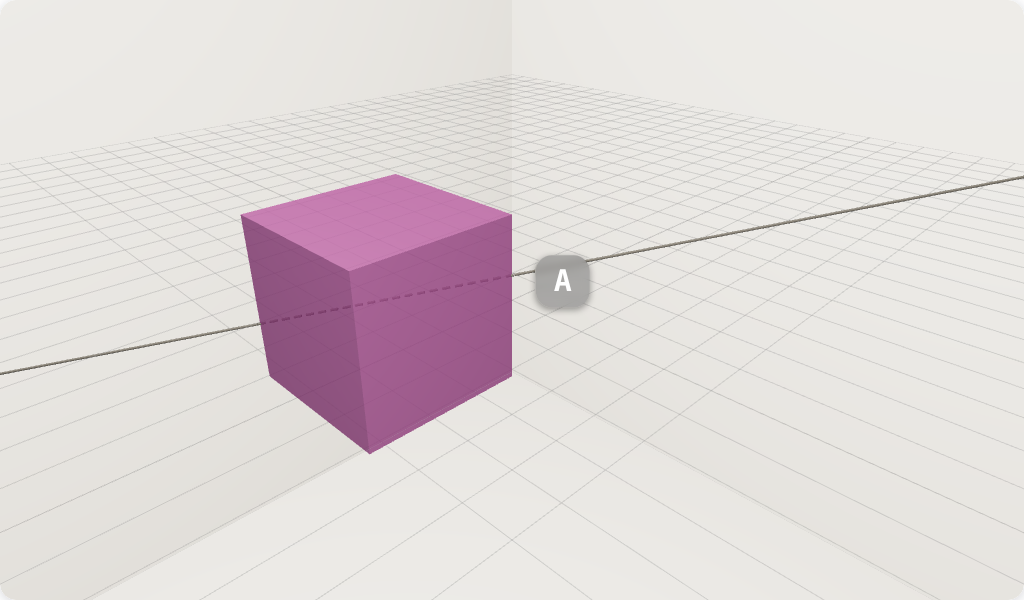
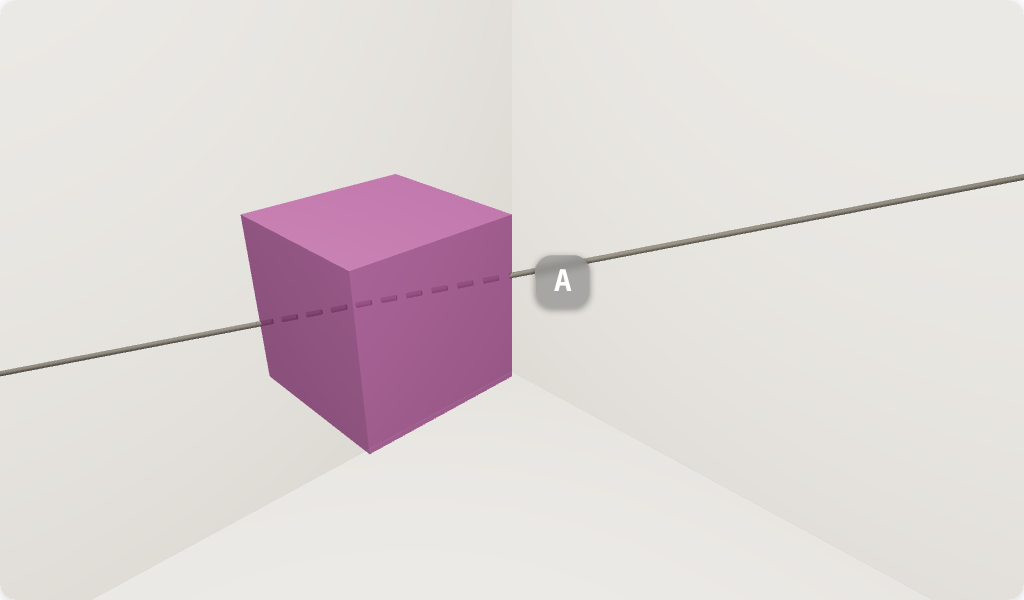
draw ringed tubes at the plain tube width and drop the grid from the cue pictures
Ringed lines and vectors were nearly twice as thick as plain tubes, which made
T3 easier to see for reasons unrelated to the rings. They now share the plain
tube's shaft and arrowhead sizes. The intro's cue close-ups hide the grid, which
crossed the floor grid at clashing scales and looked broken.

diff --git a/src/components/BlocksCanvas/blocks/geometric/geoVectorLine.js b/src/components/BlocksCanvas/blocks/geometric/geoVectorLine.js
@@ -389,18 +389,18 @@ export function geoVectorLineDefinition(posInput, dirInput, tRaw, blockId, optio
 
   const baseTube = new THREE.Mesh(
     new THREE.CylinderGeometry(
-      0.085,
-      0.085,
+      0.051,
+      0.051,
       distance,
       RINGED_TUBE_RADIAL_SEGMENTS,
       RINGED_TUBE_HEIGHT_SEGMENTS(distance),
     ),
     ringedTubeMat,
   )
-  baseTube.userData.zoomInvariantRadius = 0.085
+  baseTube.userData.zoomInvariantRadius = 0.051
   ringedTube.add(baseTube)
 
-  const haloCompanionRingedTube = haloAvailable ? buildHaloCompanion(0.085) : null
+  const haloCompanionRingedTube = haloAvailable ? buildHaloCompanion(0.051) : null
   if (haloAvailable) window.applyHaloDiscardMaterial(ringedTubeMat, haloId, haloImmuneIds)
 
   // "dashed" style REPLACES the base tube, like plain_tube's dashedTubeGroup;
@@ -427,15 +427,15 @@ export function geoVectorLineDefinition(posInput, dirInput, tRaw, blockId, optio
     if (haloAvailable) window.applyHaloDiscardMaterial(mat, haloId, haloImmuneIds)
     const segment = new THREE.Mesh(
       new THREE.CylinderGeometry(
-        0.085,
-        0.085,
+        0.051,
+        0.051,
         height,
         RINGED_TUBE_RADIAL_SEGMENTS,
         RINGED_TUBE_HEIGHT_SEGMENTS(height),
       ),
       mat,
     )
-    segment.userData.zoomInvariantRadius = 0.085
+    segment.userData.zoomInvariantRadius = 0.051
     segment.position.set(0, (start + end) / 2, 0)
     ringedTubeDashedGroup.add(segment)
   }
@@ -473,7 +473,7 @@ export function geoVectorLineDefinition(posInput, dirInput, tRaw, blockId, optio
   // Sized to the visible glyph's radius (plus a clearance hair), picked per
   // refresh. See docs/architecture/vector-line-glyphs.md#collision-accents.
   const getAccentRadius = (activeStyle) => {
-    if (activeStyle === 'ringed_tube') return 0.085 // == baseTube's own radius
+    if (activeStyle === 'ringed_tube') return 0.051 // == baseTube's own radius
     if (activeStyle === 'plain_tube') return 0.051 // == cylinder's own radius
     return 0.035 // no true radius (fat-line) -- a thin nominal size
   }

diff --git a/src/pages/SurveyShowcasePage.jsx b/src/pages/SurveyShowcasePage.jsx
@@ -43,7 +43,8 @@ const SHOWCASE = {
 }
 
 // Each close-up is drawn at the size the intro page shows it, with the trial's
-// own settings (grid, axes, labels), so a cue looks as it will in a trial.
+// own settings, so a cue looks as it will in a trial. No grid: this close, the
+// floor grid and the y = 0 grid cross at clashing scales and read as a glitch.
 const CUE_CANVAS = { width: 512, height: 300 }
 const CUE_CAMERA_DISTANCE = 16
 
@@ -111,7 +112,7 @@ function resolveView(t, c, cue) {
     return {
       id: `cue-${cue}`,
       label: cueView.label,
-      settings: { ...getTechnique(cueView.technique).settings, showAxes: false },
+      settings: { ...getTechnique(cueView.technique).settings, showAxes: false, showGrid: false },
       scene: cueView.scene,
       canvas: CUE_CANVAS,
       crop: { top: 0, height: CUE_CANVAS.height },

diff --git a/src/utils/vectorShaftGlyph.js b/src/utils/vectorShaftGlyph.js
@@ -18,9 +18,9 @@ const TUBE_HEAD_RADIUS = 0.2
 const TUBE_HEAD_LENGTH = 0.35
 
 // Ringed Tube: a solid cylinder with a ring texture
-const RINGED_SHAFT_RADIUS = 0.085
-const RINGED_HEAD_RADIUS = 0.22
-const RINGED_HEAD_LENGTH = 0.28
+const RINGED_SHAFT_RADIUS = TUBE_SHAFT_RADIUS
+const RINGED_HEAD_RADIUS = TUBE_HEAD_RADIUS
+const RINGED_HEAD_LENGTH = TUBE_HEAD_LENGTH
 // One light + dark pair per grid unit, from the tail (the cylinder's texture
 // starts at its bottom end), so counting rings reads the length.
 const RINGED_RING_PERIOD = 1

diff --git a/docs/architecture/vector-line-glyphs.md b/docs/architecture/vector-line-glyphs.md
@@ -82,8 +82,8 @@ stretches the bar, the ringed texture stretches with it.
 
 A vector drawn exactly along a line, such as a cross product's result along the
 line built from it or p along L1 in `transform-object`, occupies the line's
-space in every style. The tube radii are close (0.045 against 0.051), the
-ringed radii are equal (0.085), and plain lines are both screen-space strokes.
+space in every style. The tube radii are close (0.045 against 0.051, the same for ringed tubes),
+and plain lines are both screen-space strokes.
 The two fought per pixel and the vector broke into fragments.
 
 The vector matters more, so the line leaves that stretch out.
@@ -137,7 +137,8 @@ the dashed collision style - real gaps, not an overlay.
 
 ### ringed_tube
 
-`CylinderGeometry(0.085, ...)` textured with a repeating 2-band `CanvasTexture`
+`CylinderGeometry(0.051, ...)` (plain_tube's radius, as a ringed vector
+shares the plain vector's shaft and head sizes) textured with a repeating 2-band `CanvasTexture`
 (`makeRingTexture`). Band frequency is fixed at build time
 (`RINGED_TUBE_RING_PERIOD`), deliberately not zoom-responsive, so there's no
 per-frame texture rebuild racing the cross-section's zoom-invariant scaling.
@@ -166,7 +167,7 @@ glyph is visible, so it's handled per-glyph (`dashedTubeGroup` /
 `ringedTubeDashedGroup` / `setThickLineSegmentPairs`).
 
 `getAccentRadius(style)` sizes the overlay to the visible glyph's own radius
-(0.085 / 0.051 / 0.035-nominal for fat-line) plus a clearance "hair".
+(0.051 for both tubes / 0.035-nominal for fat-line) plus a clearance "hair".
 
 `none` is the fourth value and draws no accent: it matches none of the three
 visibility branches in `applyGlyphVisibility`, so the continuous glyph stays
@@ -214,7 +215,7 @@ per segment.
 ### needle-triangle
 
 `CylinderGeometry` has only one height segment unless told otherwise - its side
-is two triangles spanning the tube's entire length (~40 units) against a 0.085
+is two triangles spanning the tube's entire length (~40 units) against a 0.051
 radius, an aspect ratio over 1000:1. Perspective-correct texture-coordinate
 interpolation across a triangle that extreme loses precision on some GPU/driver
 combinations, worse from an oblique angle - which is exactly what breaks the

diff --git a/docs/architecture/halos.md b/docs/architecture/halos.md
@@ -49,7 +49,7 @@ needed this):
   `buildHaloCompanion(baseRadius)` helper (`geoVectorLine.js`) -- 0.035
   (nominal, `plain_line` has no true 3D radius, matching the existing
   collision-accent ring's own fallback for this style), 0.051 (`plain_tube`,
-  unchanged), 0.085 (`ringed_tube`, matching `baseTube`'s own radius). Only
+  unchanged), 0.051 (`ringed_tube`, matching `baseTube`'s own radius). Only
   the currently-active style's companion is ever `.visible = true` at once
   (toggled alongside the real glyphs in `applyGlyphVisibility`) -- three
   differently-sized footprints for the same line on `HALO_LAYER`
